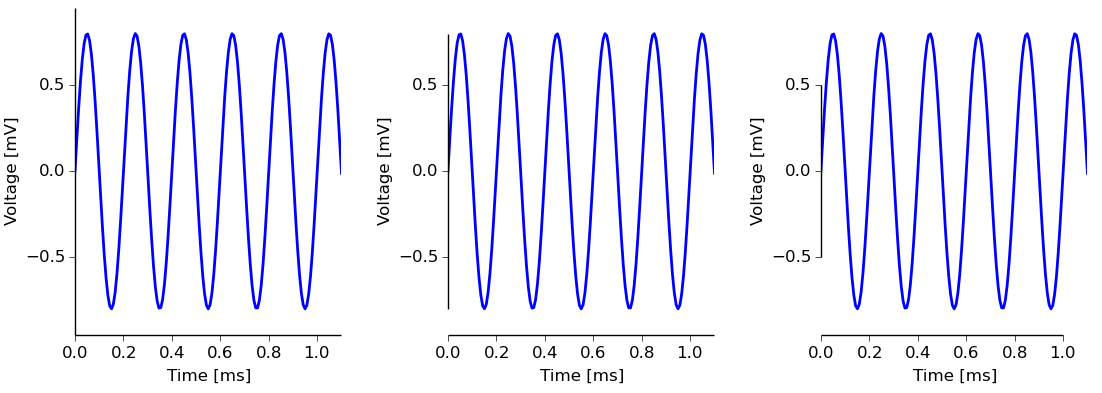
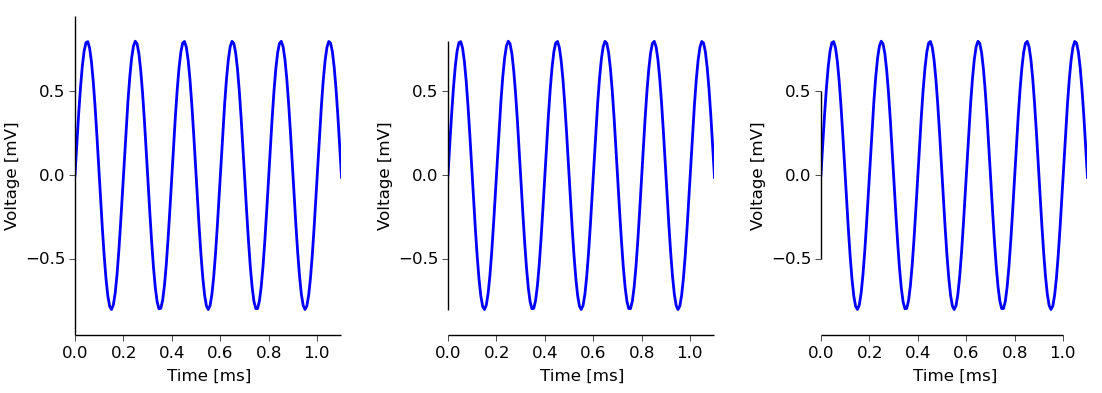
[docs] updated spines with arrows

diff --git a/docs/figures/spines.py b/docs/figures/spines.py
@@ -2,7 +2,7 @@ import numpy as np
 import matplotlib.pyplot as plt
 import plottoolspath
 from plottools.figure import install_figure
-from plottools.spines import install_spines
+from plottools.spines import spines_params
 import plottools.ticks
 
     
@@ -15,7 +15,7 @@ def spines_figures():
         plt.rcParams['ytick.direction'] = 'out'
         fig, axs = plt.subplots(1, 3, cmsize=(28, 10))
         if margin == 'lb':
-            fig.subplots_adjust(leftm=7.5, rightm=1.5, topm=0.5, bottomm=3.5, wspace=0.4)
+            fig.subplots_adjust(leftm=7.5, rightm=1.5, topm=1, bottomm=3.5, wspace=0.4)
         else:
             fig.subplots_adjust(leftm=7.5, rightm=7.5, topm=3.5, bottomm=3.5, wspace=0.4)
         for ax in axs:
@@ -35,7 +35,7 @@ def spines_figures():
         plt.close()
         
     install_figure()
-    install_spines()
+    spines_params(height=10)
 
     fig, axs = new_figure()
     axs[0].show_spines('lb')
@@ -60,6 +60,18 @@ def spines_figures():
     axs[2].show_spines('lb')
     axs[2].set_spines_outward('lb', -10)
     save_fig(fig, 'outward')
+
+    fig, axs = new_figure(1.0, 1.0, -1, 1, 'lb')
+    axs[0].set_spines_outward('lb', 10)
+    axs[0].show_spines('')
+    axs[0].arrow_spines('lb')
+    axs[1].set_spines_outward('lb', 10)
+    axs[1].show_spines('')
+    axs[1].arrow_spines('lb', flush=1.0)
+    axs[2].set_spines_outward('lb', 10)
+    axs[2].show_spines('')
+    axs[2].arrow_spines('lb', flush=2.0)
+    save_fig(fig, 'arrow')
     
     
 if __name__ == "__main__":

diff --git a/docs/spines.md b/docs/spines.md
@@ -34,9 +34,11 @@ ax2.show_spines('tr')
 ## Spine bounds
 
 The length of the spine can span
+
 - the full length of the axis as set by the axis's limits ('full'),
 - the extend of the data ('data'),
 - the range between the minimum and maximum tick location ('ticks').
+- or any other range on the corresponding axis.
 
 ![bounds](figures/spines-bounds.png)
 
@@ -58,6 +60,20 @@ ax0.set_spines_outward('lb', 0)
 ax1.set_spines_outward('lb', 10)
 ax2.set_spines_outward('lb', -10)
 ```
+
+## Arrowed spines
+
+Spines can get an arrow head.
+
+![arrow](figures/spines-arrow.png)
+
+```
+spines_params(spines='', height=10)
+ax0.arrow_spines('lb')
+ax1.arrow_spines('lb', flush=1.0)
+ax2.arrow_spines('lb', flush=2.0)
+```
+
 
 ## Default spine appearance
 
